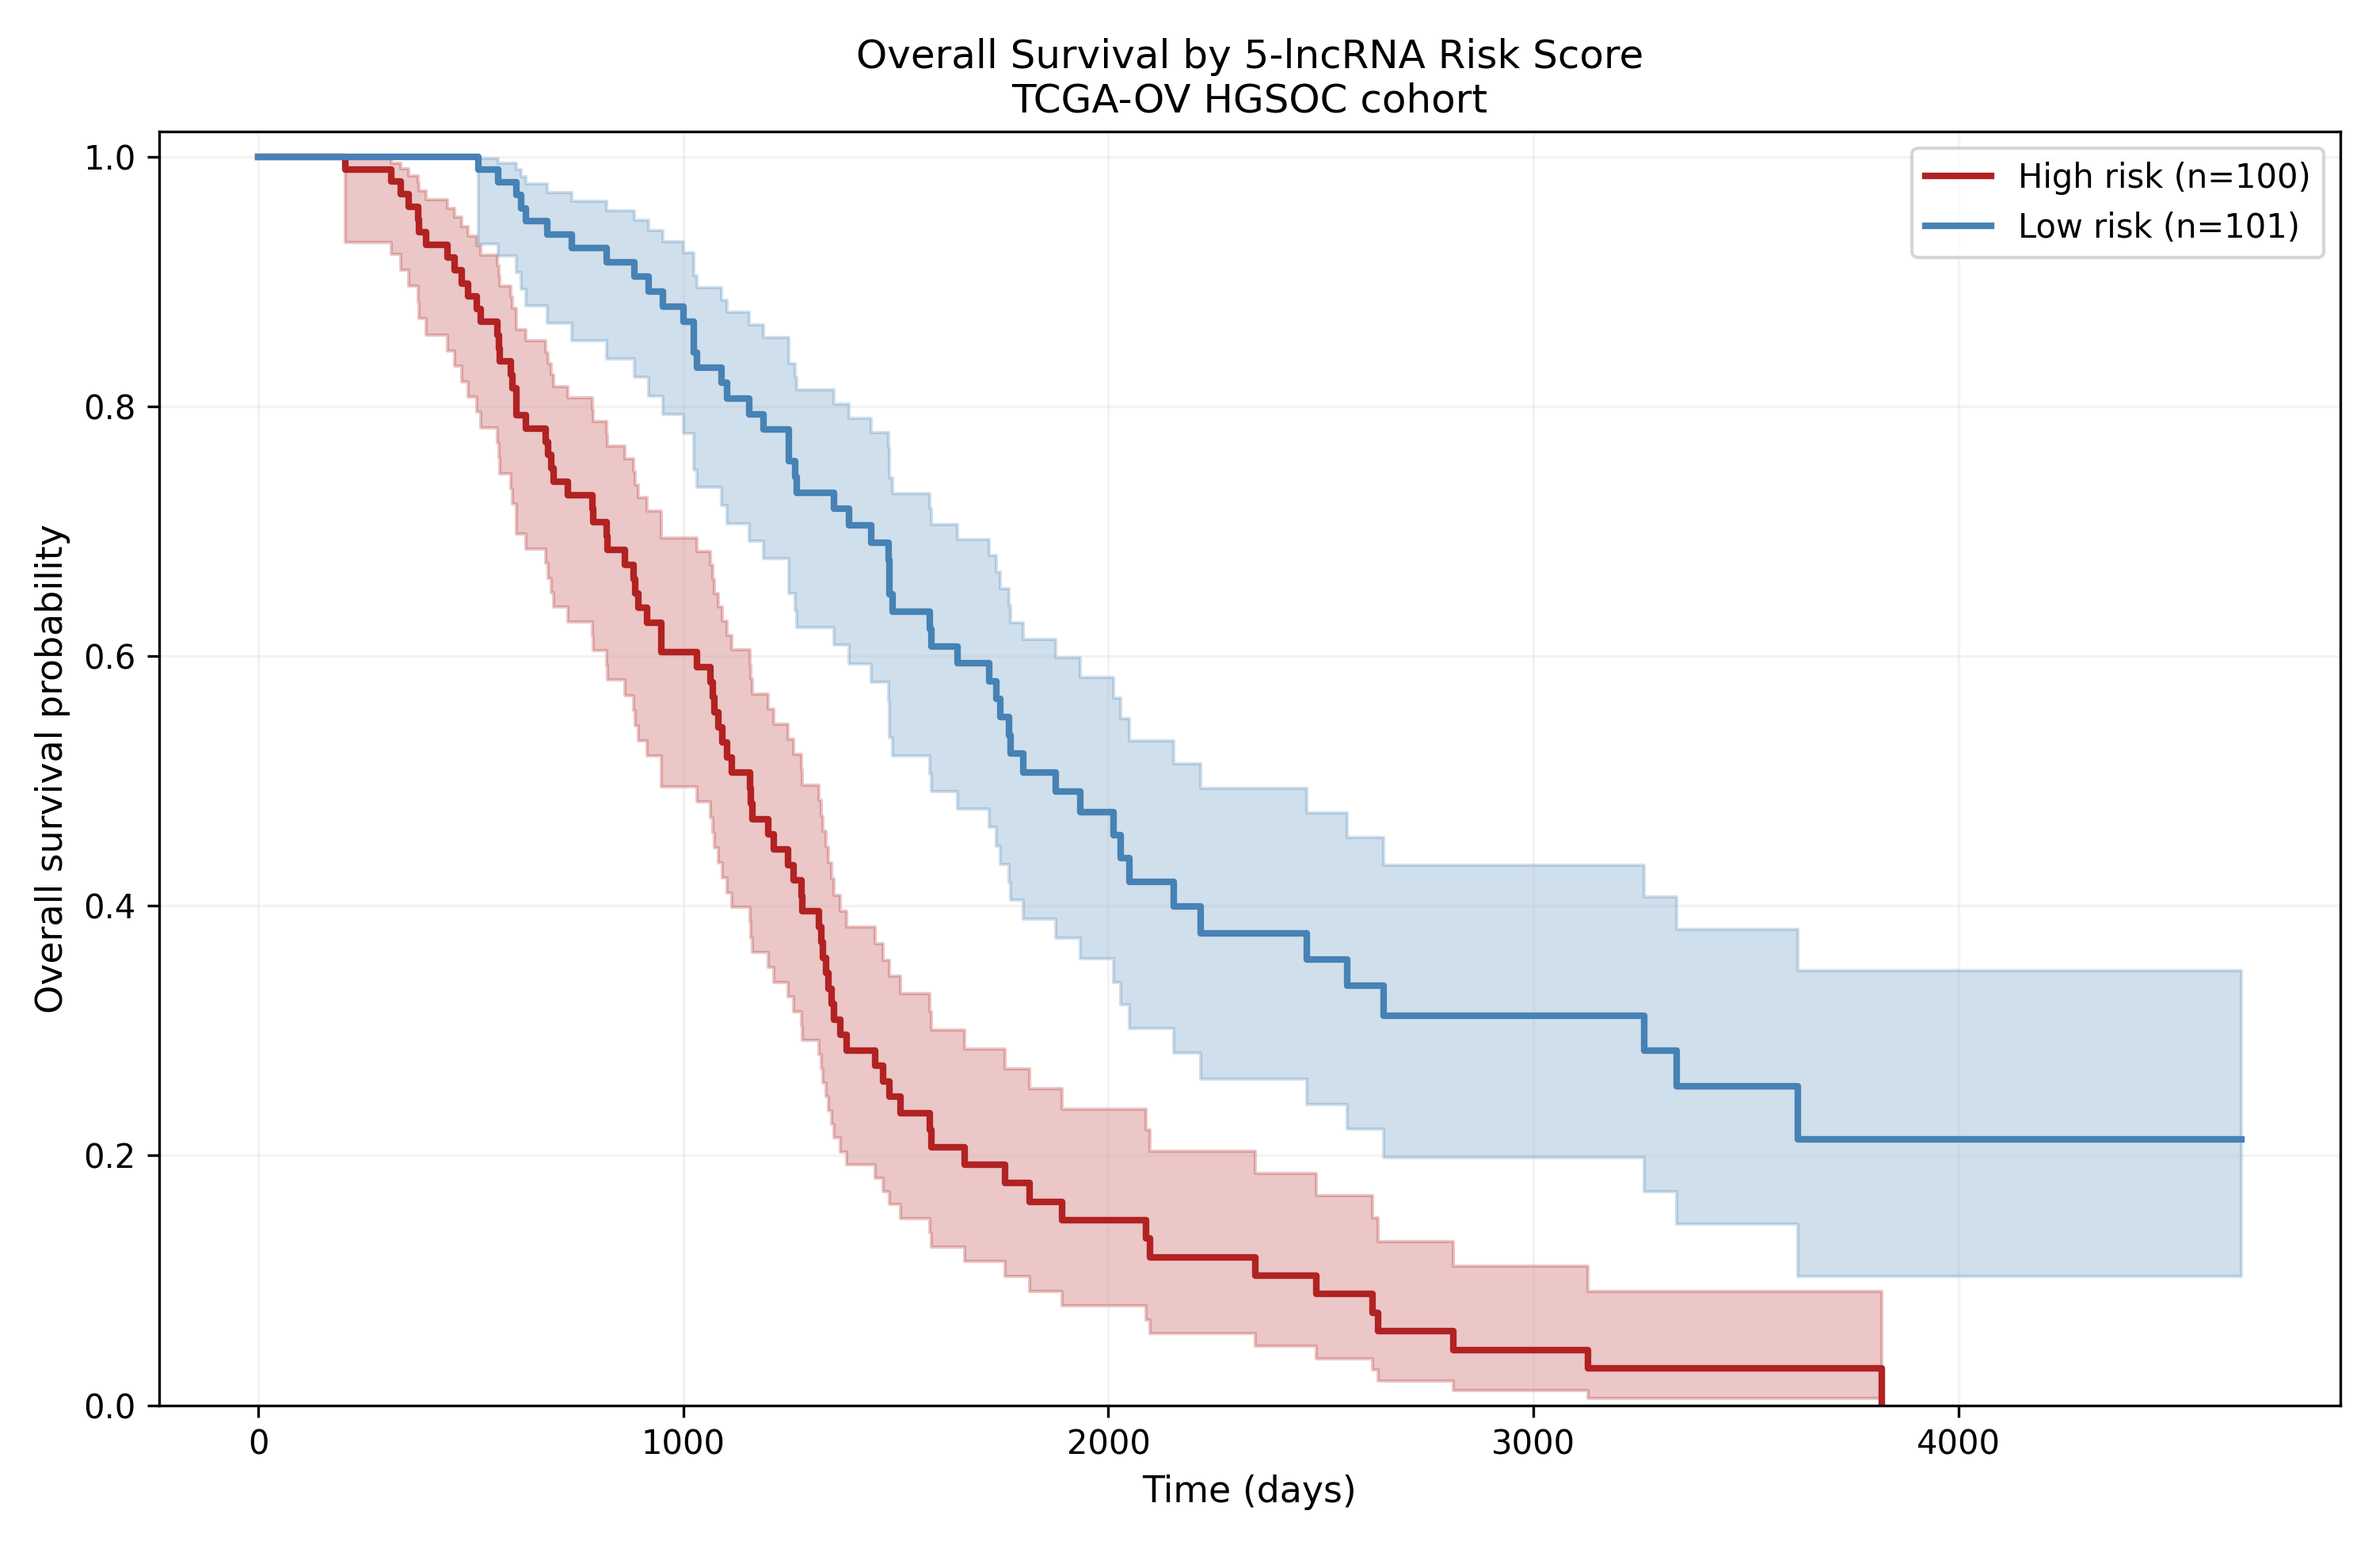
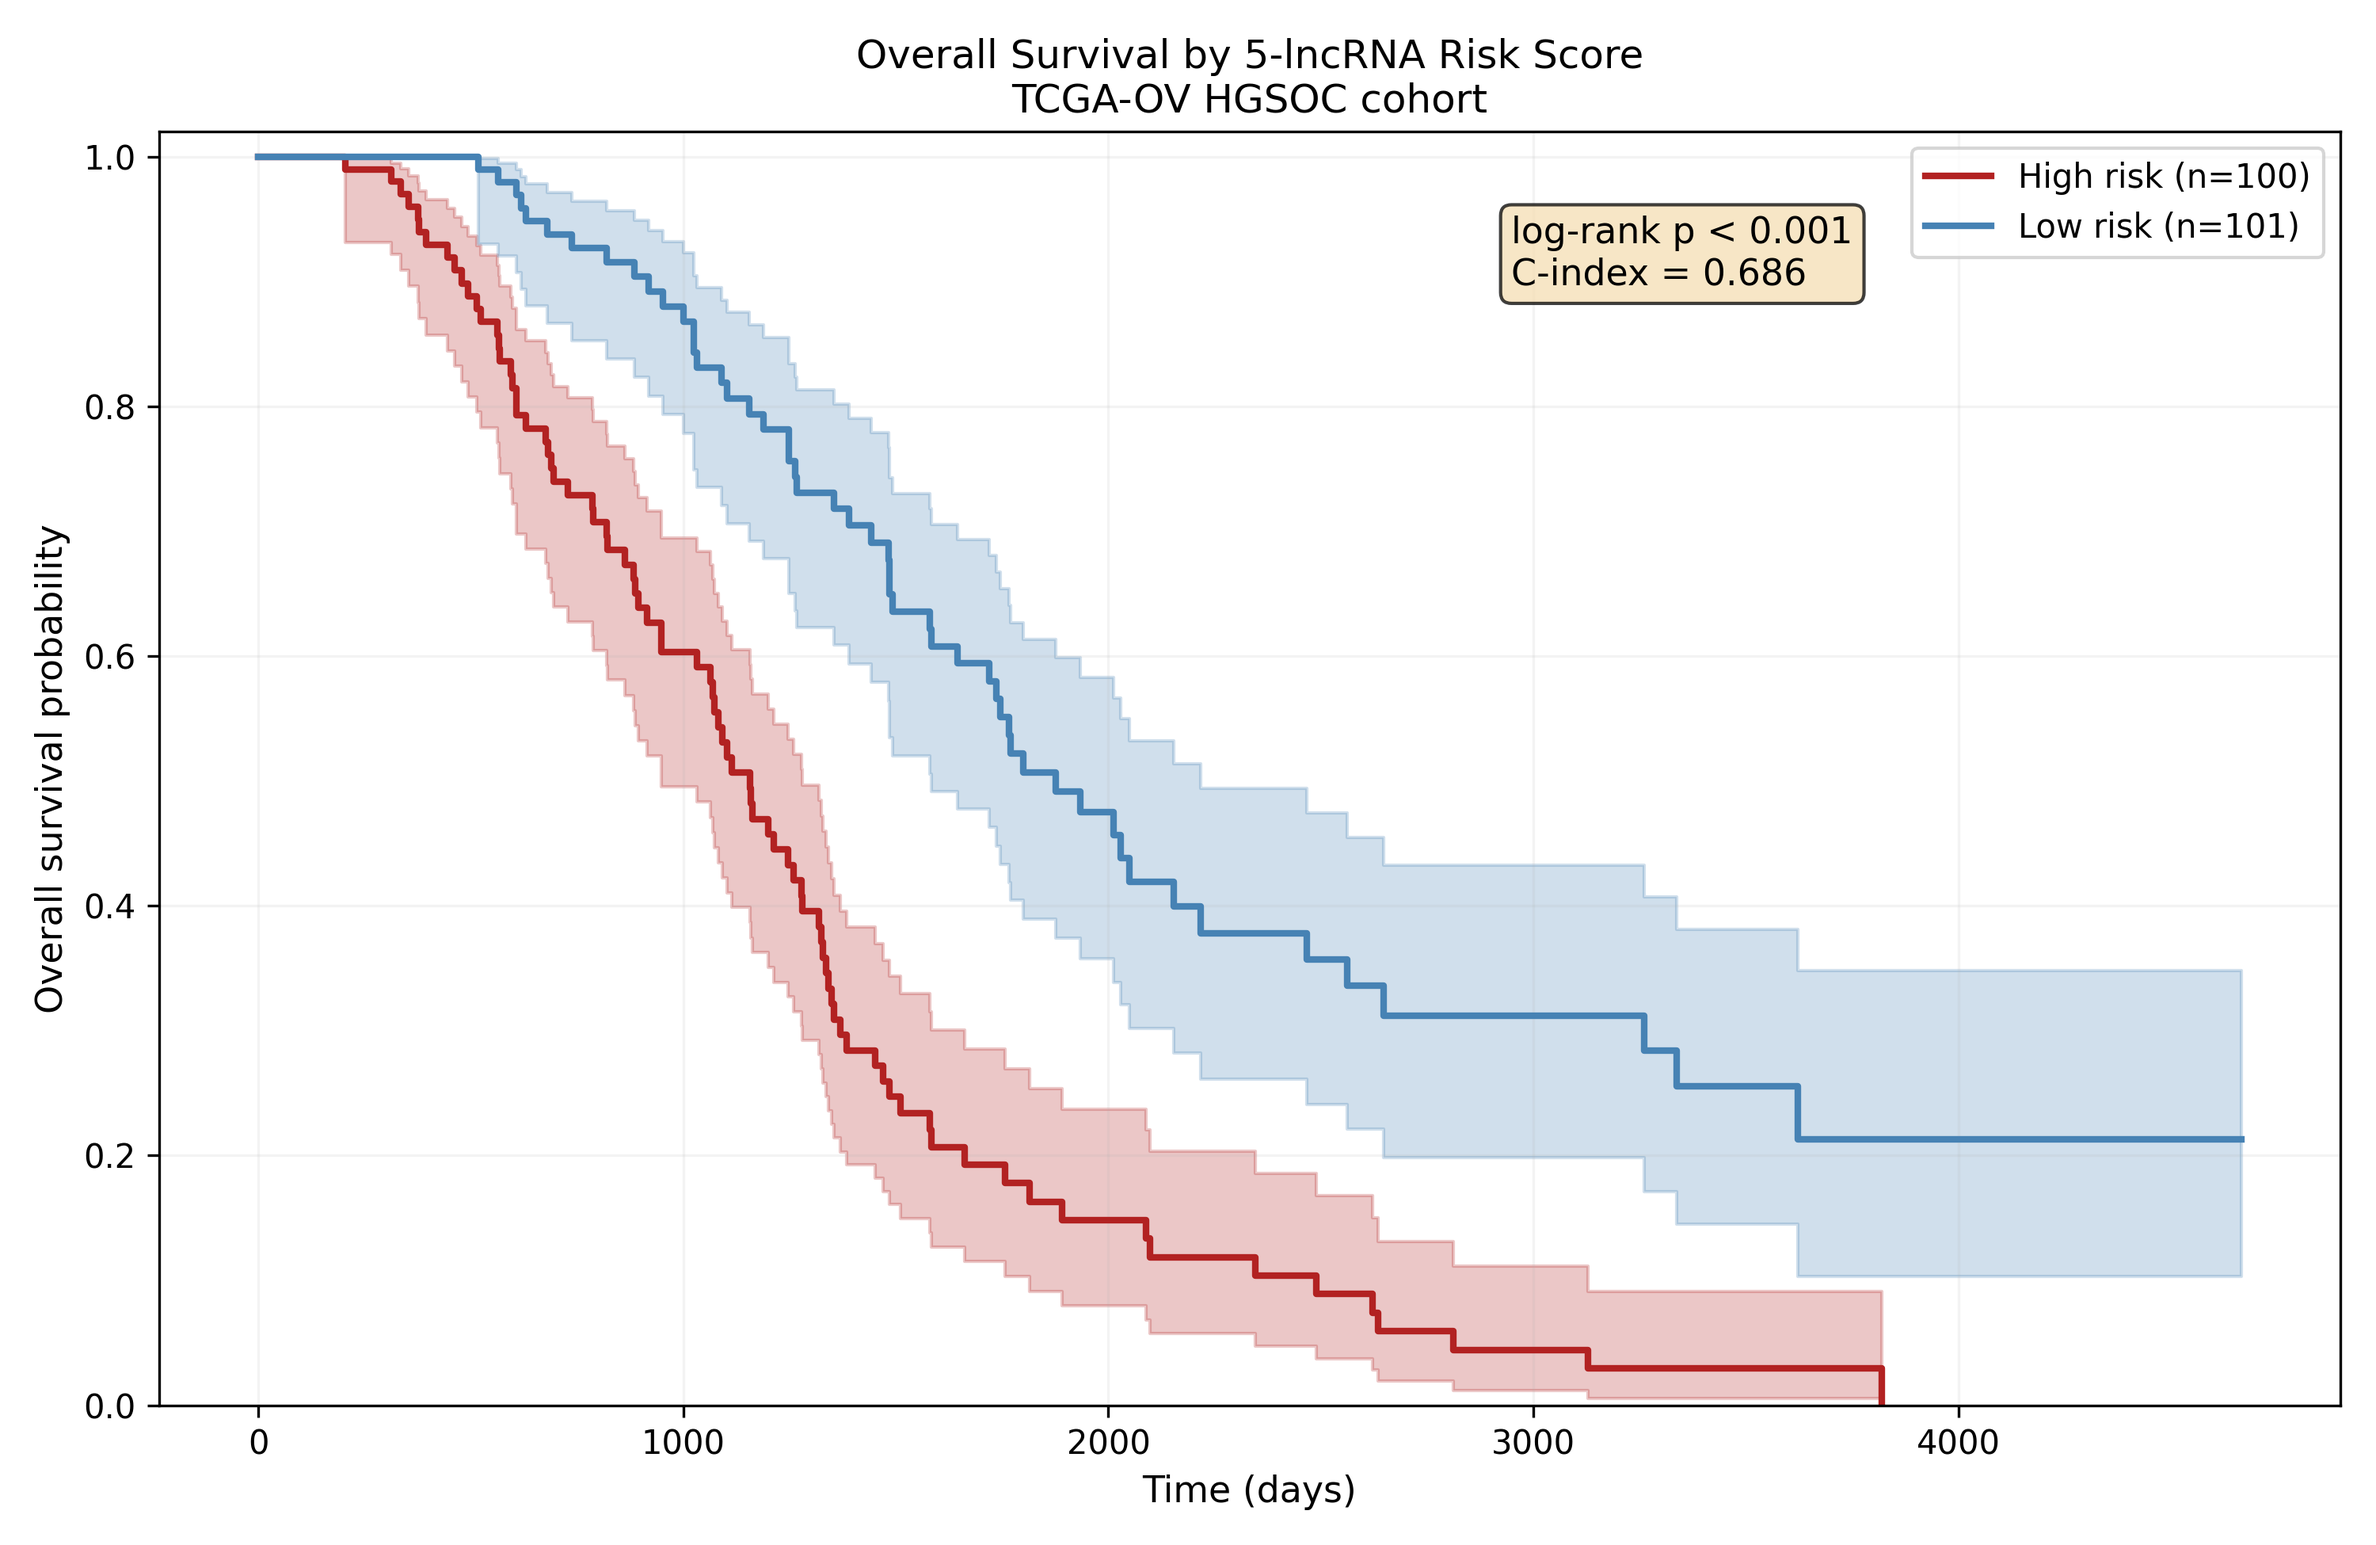
Add log-rank test and concordance index
p = 1.2e-09, C-index 0.686. Median OS 1157 days high risk against
1877 days low risk.

Changed region(s): [[0.62, 0.1231, 0.806, 0.2154]]

diff --git a/02-survival-risk-score/survival_analysis.py b/02-survival-risk-score/survival_analysis.py
@@ -5,7 +5,7 @@ Biological question: does a composite risk score built from five lncRNAs
 stratify HGSOC patients by overall survival?
 
 Method: multivariate Cox regression on the five signature lncRNAs adjusted
-        for age, then a median split of the resulting risk score.
+        for age, median split of the resulting risk score, log-rank test.
 Output: Kaplan-Meier curves for the high- and low-risk groups.
 
 Run prepare_data.py first.
@@ -19,6 +19,8 @@ import matplotlib.pyplot as plt
 import numpy as np
 import pandas as pd
 from lifelines import CoxPHFitter, KaplanMeierFitter
+from lifelines.statistics import logrank_test
+from lifelines.utils import concordance_index
 
 DERIVED_DIR = os.path.join("..", "data", "derived")
 FIGURE_DIR = "figures"
@@ -114,7 +116,7 @@ def stratify(model, cox_data):
     return stratified
 
 
-def plot_kaplan_meier(stratified):
+def plot_kaplan_meier(stratified, logrank_p, c_index):
     high = stratified[stratified["risk_group"] == "High"]
     low = stratified[stratified["risk_group"] == "Low"]
 
@@ -129,6 +131,16 @@ def plot_kaplan_meier(stratified):
         kmf.fit(data["os_time"], event_observed=data["os_event"], label=label)
         kmf.plot_survival_function(ax=ax, color=color, ci_show=True, linewidth=2)
         fitted[label.split()[0]] = kmf
+
+    p_text = "log-rank p < 0.001" if logrank_p < 0.001 else f"log-rank p = {logrank_p:.4f}"
+    ax.text(
+        0.62,
+        0.88,
+        f"{p_text}\nC-index = {c_index:.3f}",
+        transform=ax.transAxes,
+        fontsize=11,
+        bbox=dict(boxstyle="round", facecolor="wheat", alpha=0.75),
+    )
 
     ax.set_title(
         "Overall Survival by 5-lncRNA Risk Score\nTCGA-OV HGSOC cohort",
@@ -166,7 +178,24 @@ def main():
     model = fit_model(cox_data)
     stratified = stratify(model, cox_data)
 
-    fitted = plot_kaplan_meier(stratified)
+    high = stratified[stratified["risk_group"] == "High"]
+    low = stratified[stratified["risk_group"] == "Low"]
+    test = logrank_test(
+        high["os_time"],
+        low["os_time"],
+        event_observed_A=high["os_event"],
+        event_observed_B=low["os_event"],
+    )
+
+    # concordance_index expects higher = longer survival, so negate the risk.
+    c_index = concordance_index(
+        stratified["os_time"], -stratified["risk_score"], stratified["os_event"]
+    )
+
+    print(f"\nLog-rank p-value: {test.p_value:.3e}")
+    print(f"C-index:          {c_index:.4f}")
+
+    fitted = plot_kaplan_meier(stratified, test.p_value, c_index)
     for label, kmf in fitted.items():
         print(f"Median OS {label:<5} {kmf.median_survival_time_:.0f} days")
 
